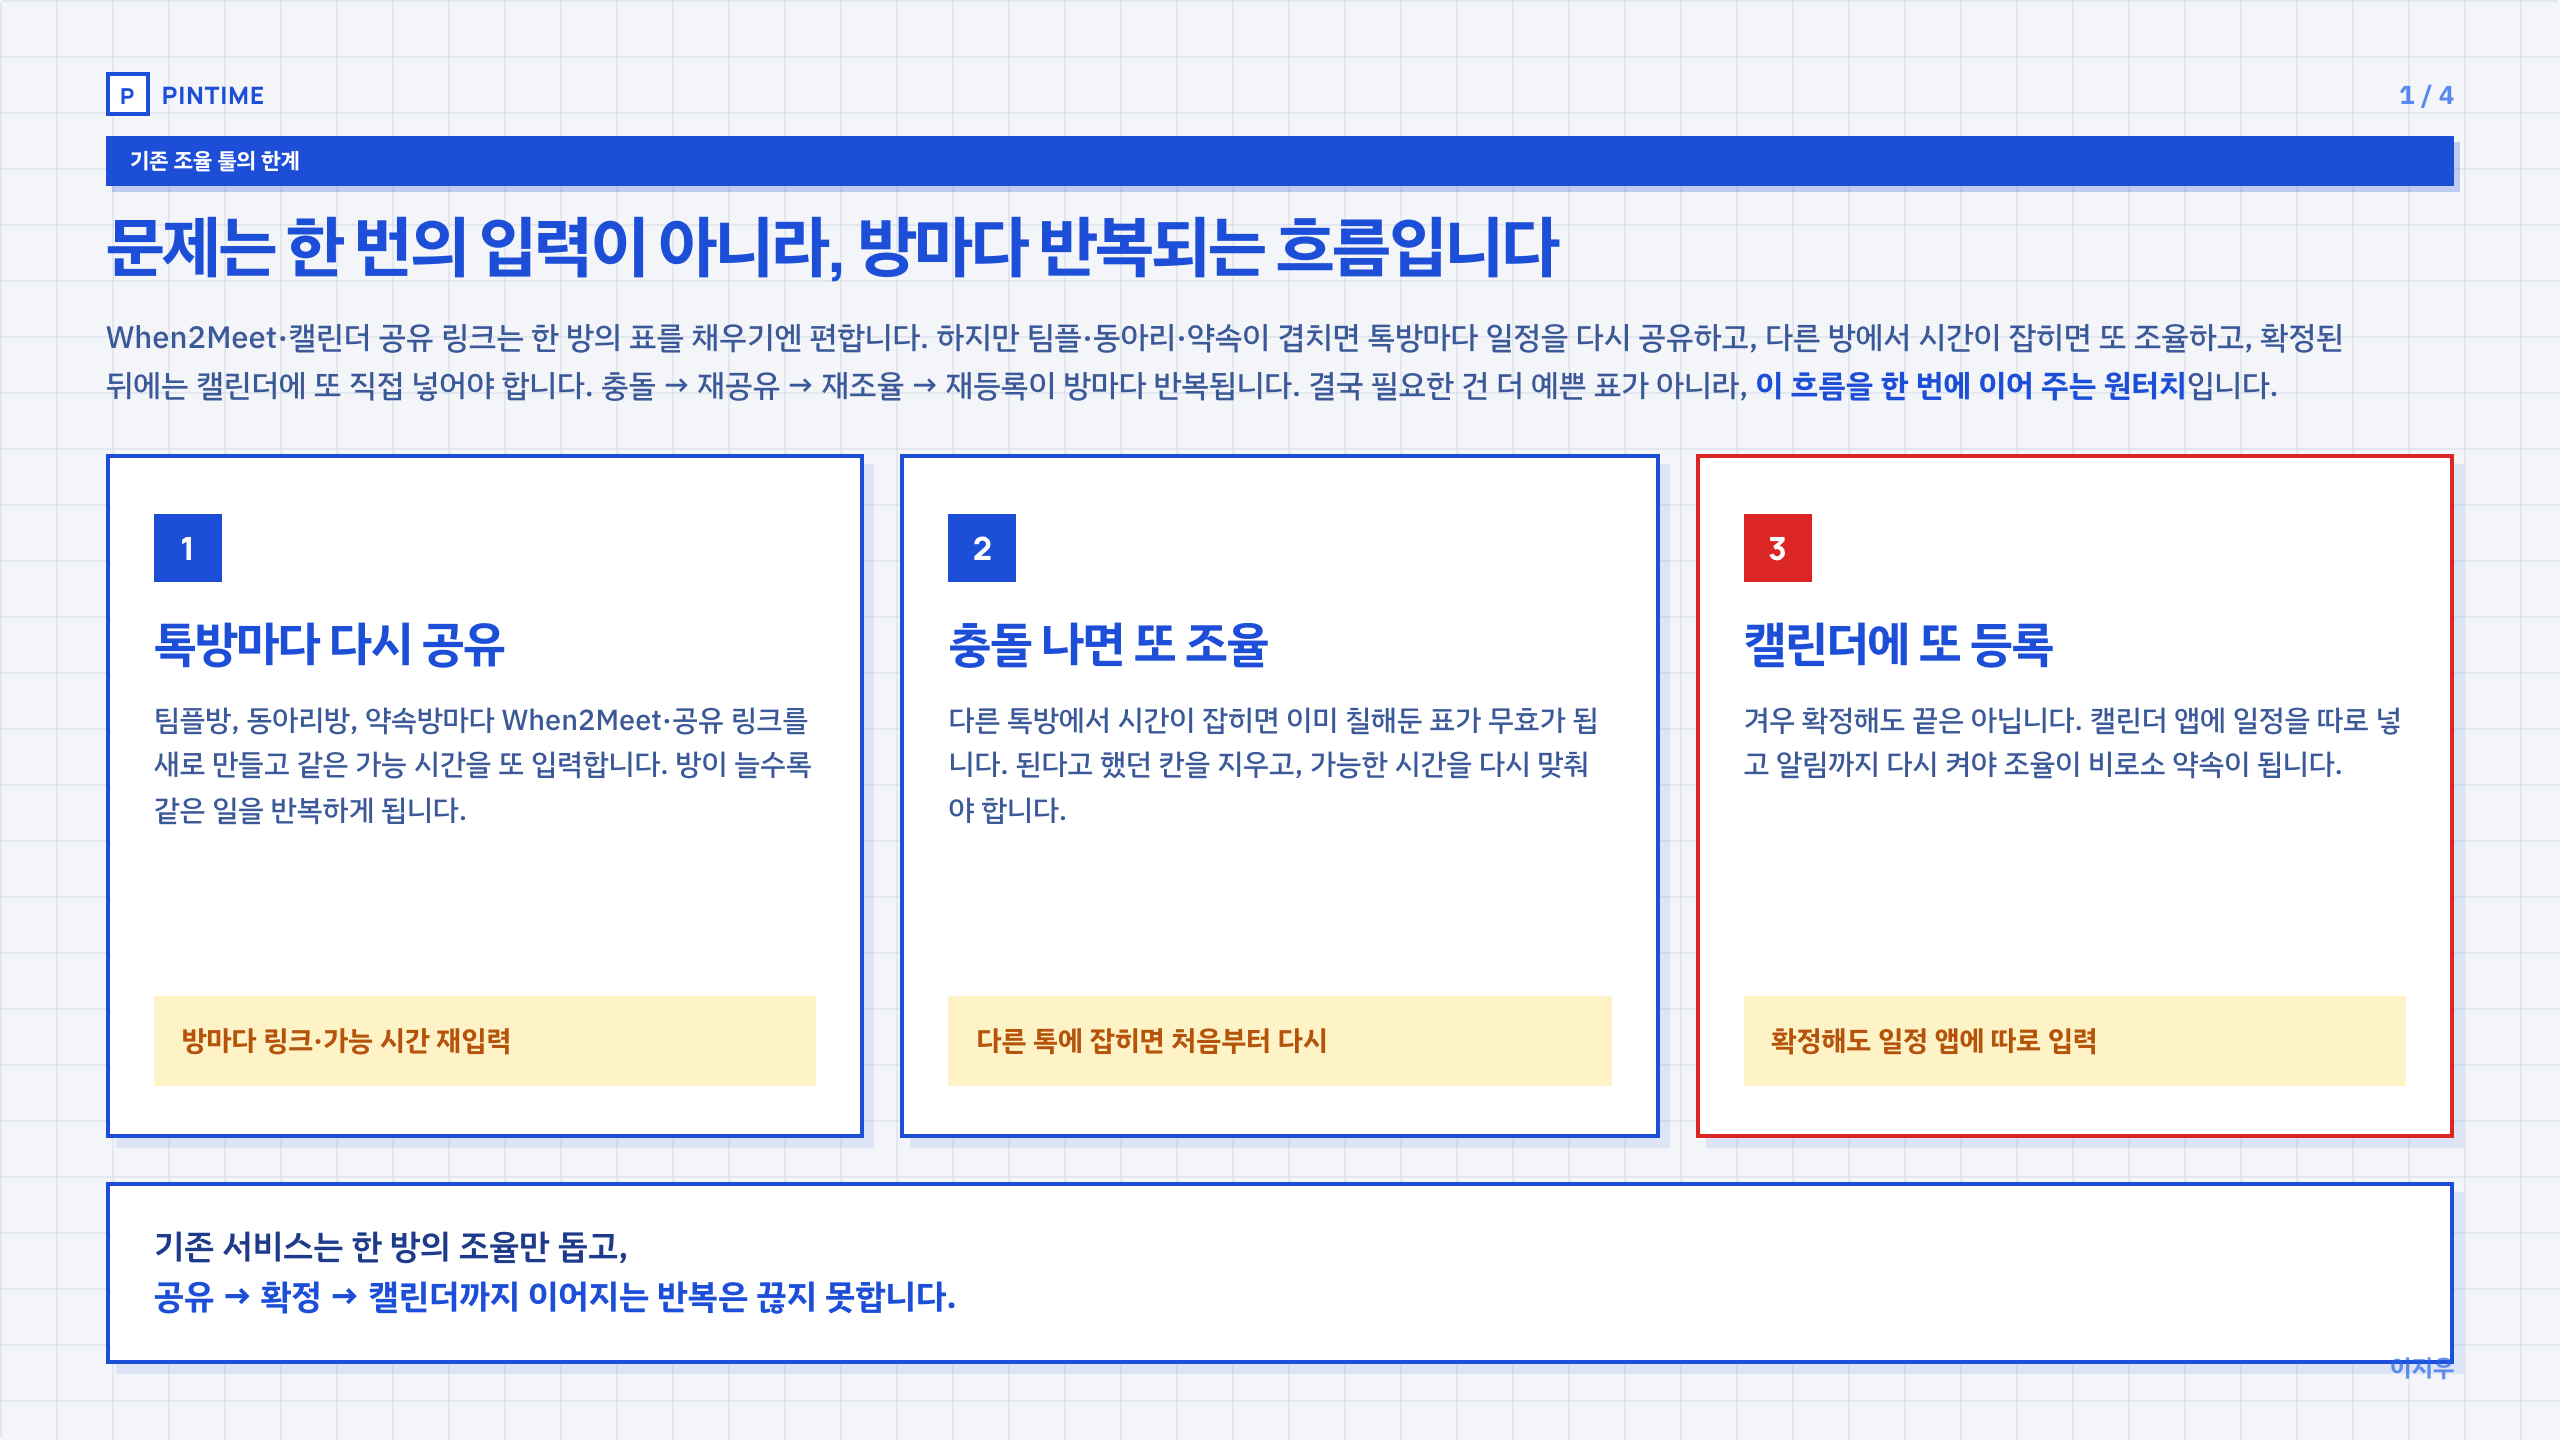
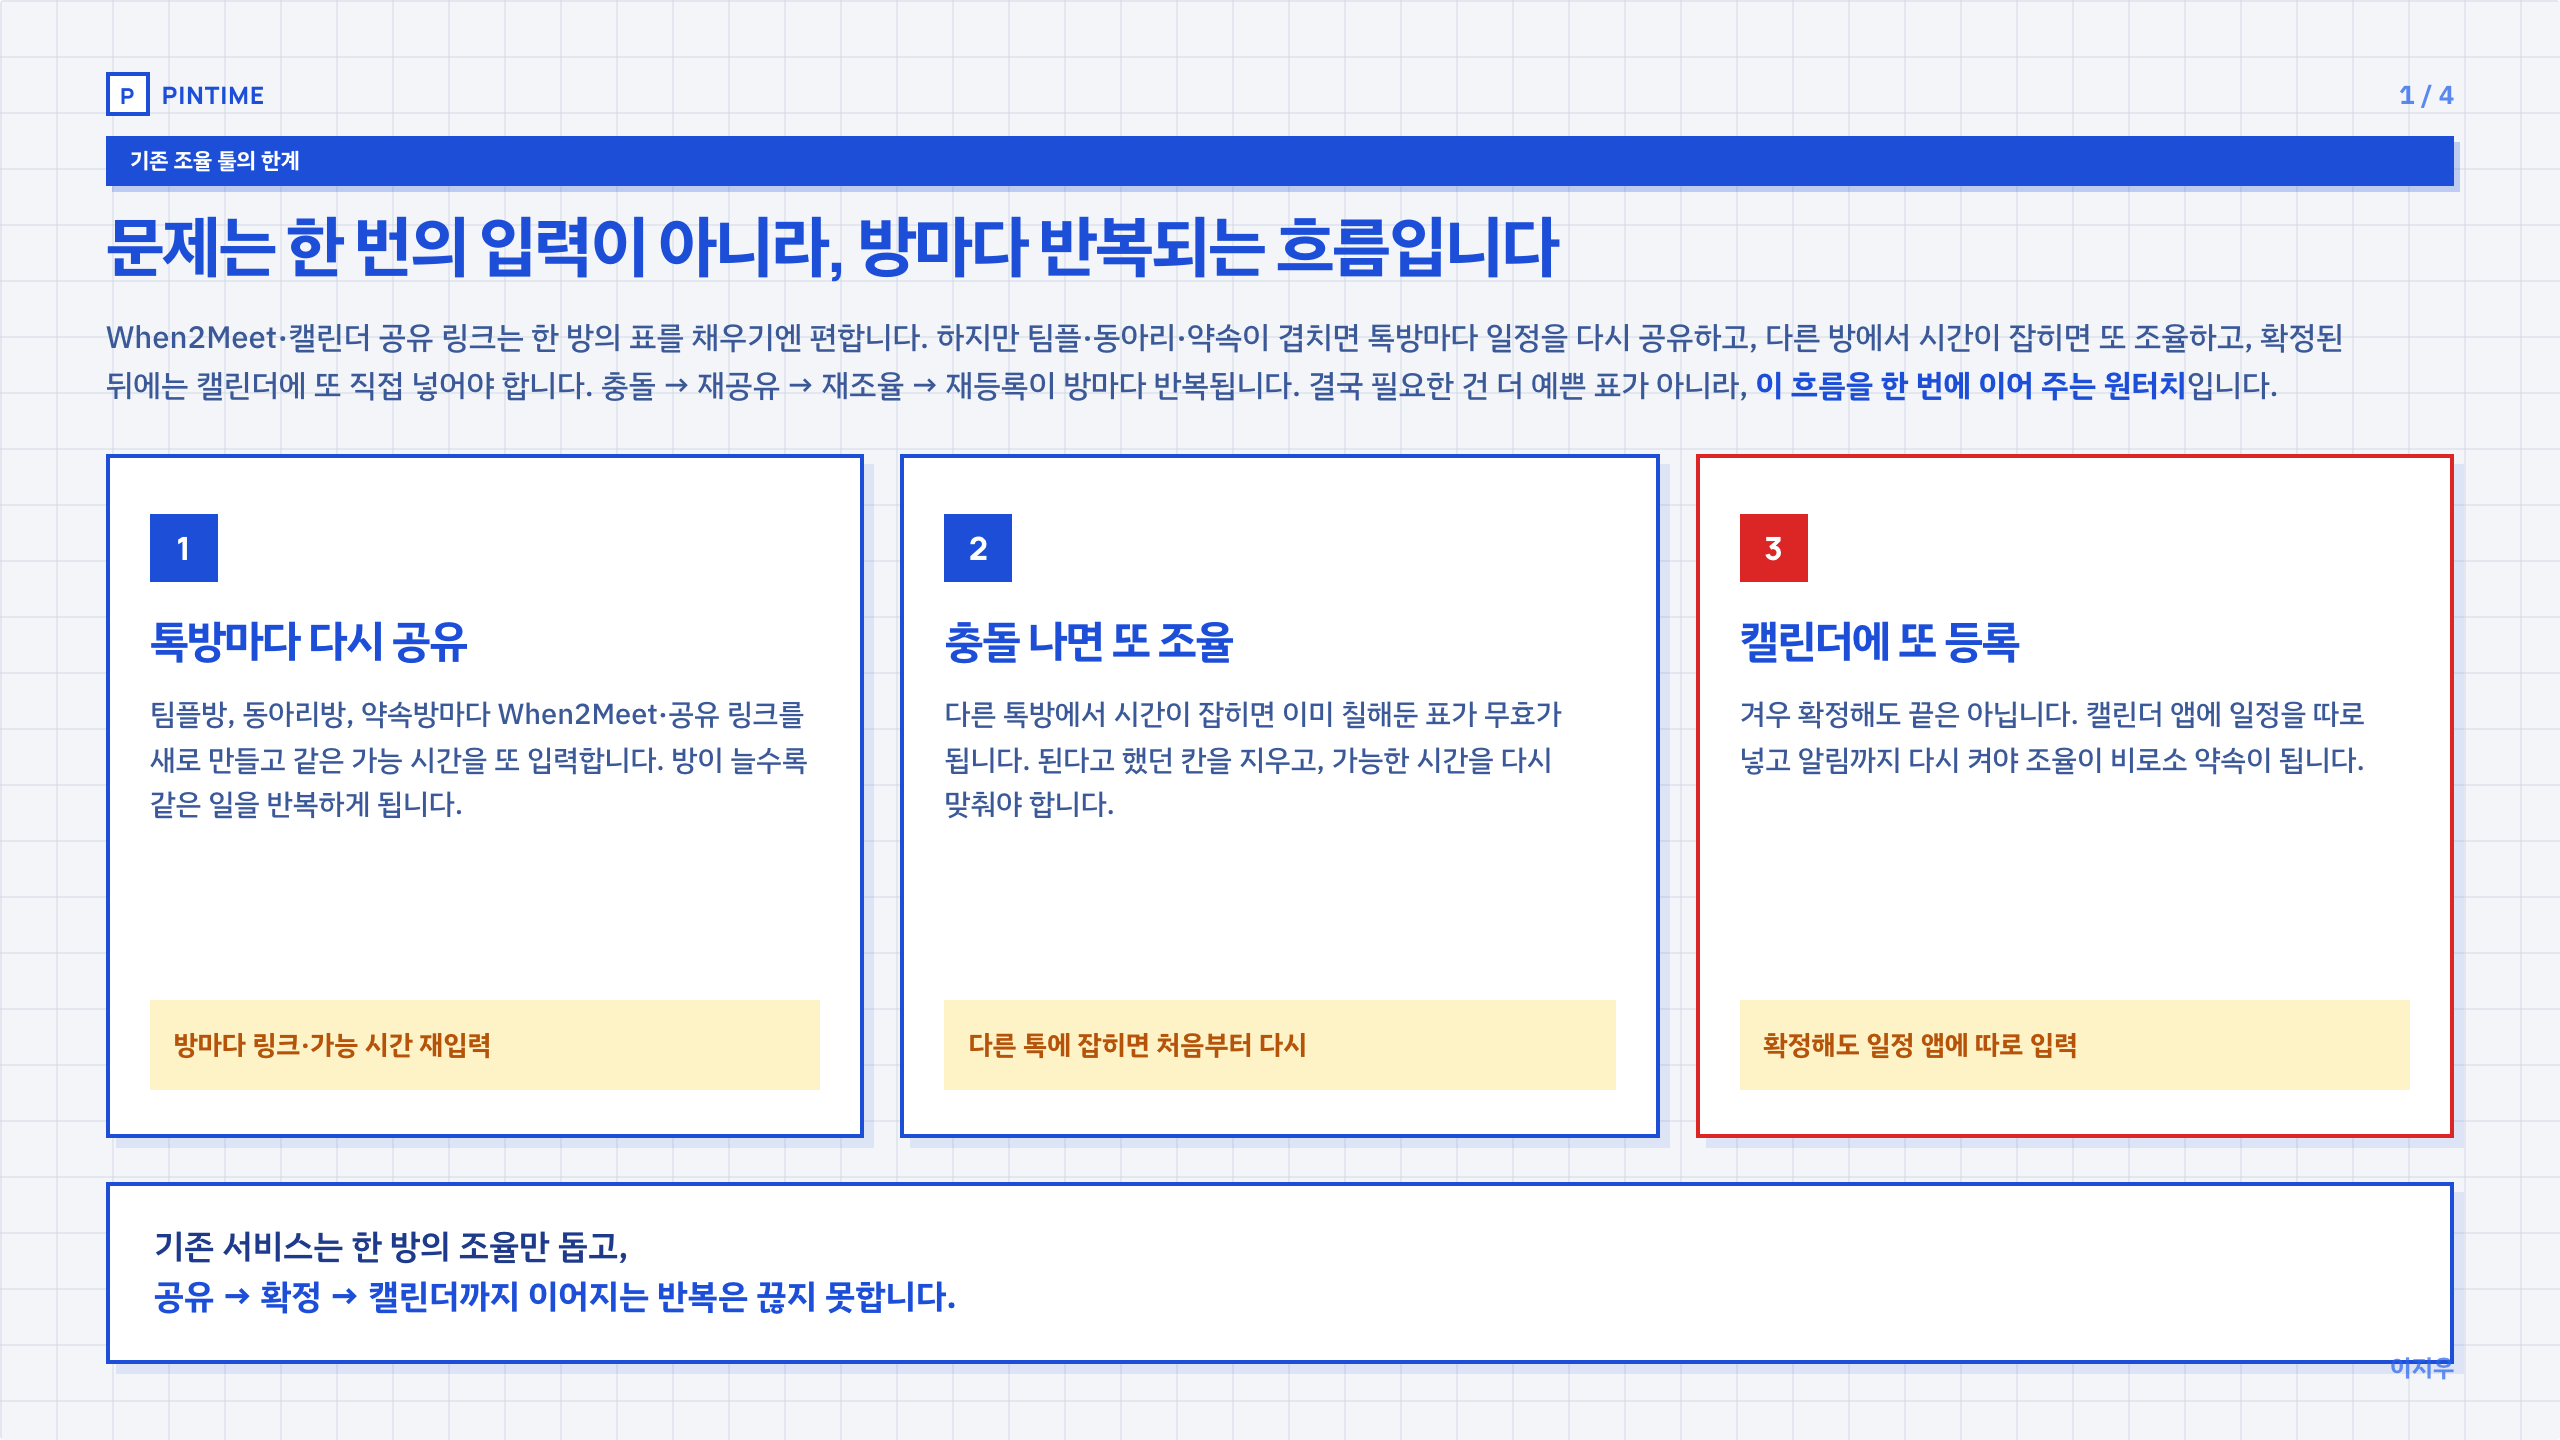
Fix first problem card yellow footer overflow.

diff --git a/public/pitch.html b/public/pitch.html
@@ -419,12 +419,15 @@
         background: #fff;
         border: 2.5px solid var(--blue);
         box-shadow: 5px 5px 0 rgba(29, 78, 216, 0.1);
-        padding: 28px 22px 24px;
+        padding: 28px 20px 22px;
         position: relative;
         display: flex;
         flex-direction: column;
         justify-content: space-between;
+        min-width: 0;
         min-height: 0;
+        overflow: hidden;
+        box-sizing: border-box;
       }
       .problem-step .num {
         display: inline-grid;
@@ -441,28 +444,39 @@
       }
       .problem-step h3 {
         margin: 0 0 12px;
-        font-size: 24px;
+        font-size: 22px;
         line-height: 1.25;
         white-space: nowrap;
-        letter-spacing: -0.03em;
+        letter-spacing: -0.04em;
         flex-shrink: 0;
+        max-width: 100%;
+        overflow: hidden;
+        text-overflow: ellipsis;
       }
       .problem-step .detail {
         margin: 0;
         flex: 1;
+        min-width: 0;
         font-size: 14.5px;
         line-height: 1.55;
         color: var(--muted-solid);
         font-weight: 500;
+        word-break: keep-all;
+        overflow-wrap: anywhere;
       }
       .problem-step .one-line {
-        font-size: 14px;
+        width: 100%;
+        max-width: 100%;
+        box-sizing: border-box;
+        font-size: 13.5px;
         font-weight: 700;
         color: #b45309;
         background: #fef3c7;
-        padding: 12px 14px;
+        padding: 12px 12px;
         margin-top: 18px;
         flex-shrink: 0;
+        word-break: keep-all;
+        overflow-wrap: anywhere;
       }
       .problem-step.bad .num { background: #dc2626; }
       .problem-step.bad { border-color: #dc2626; }
